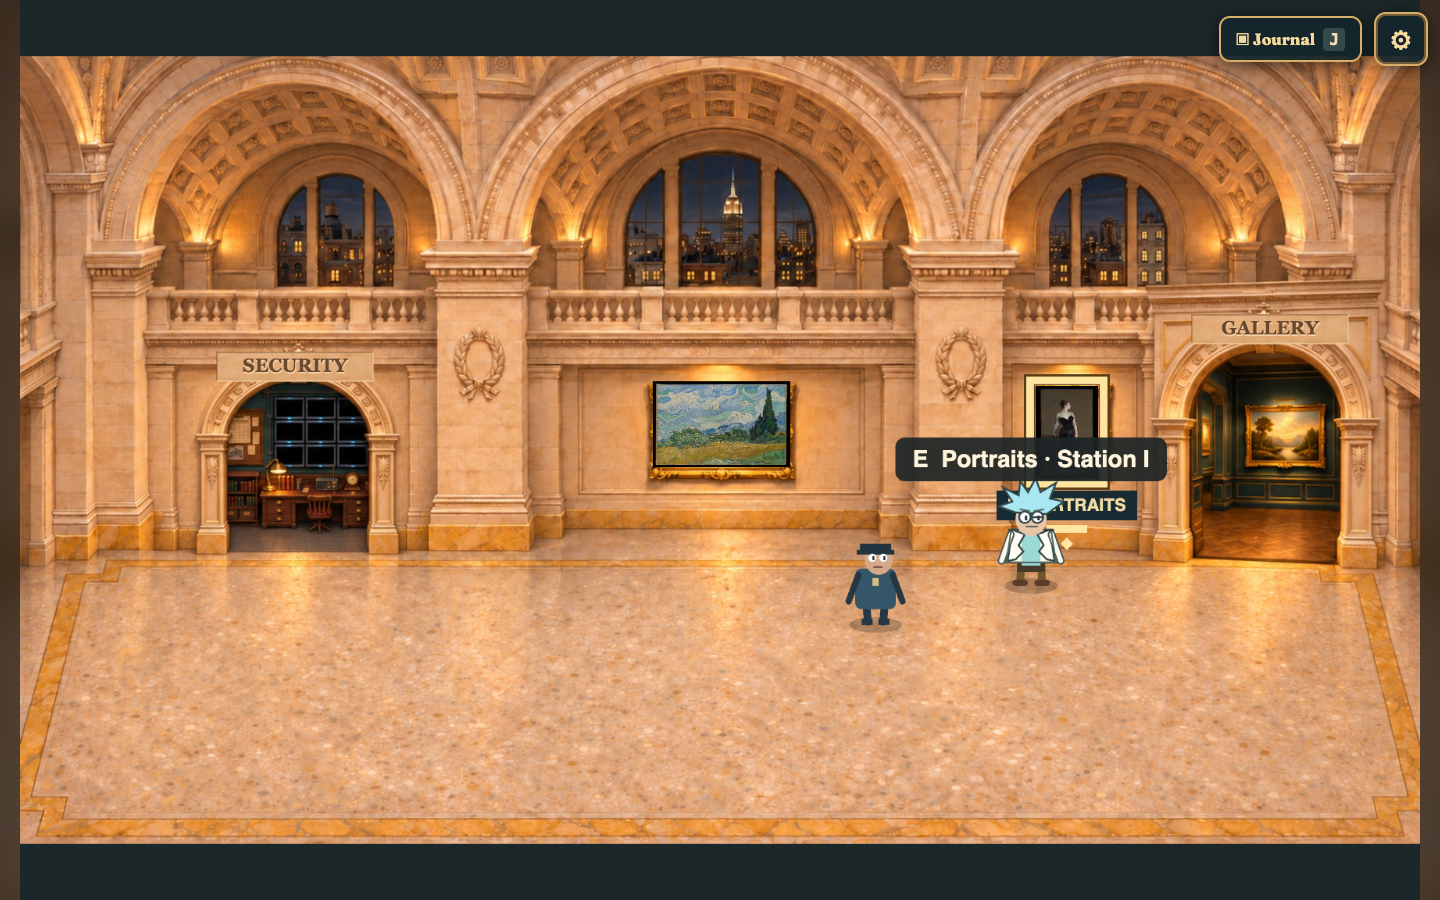
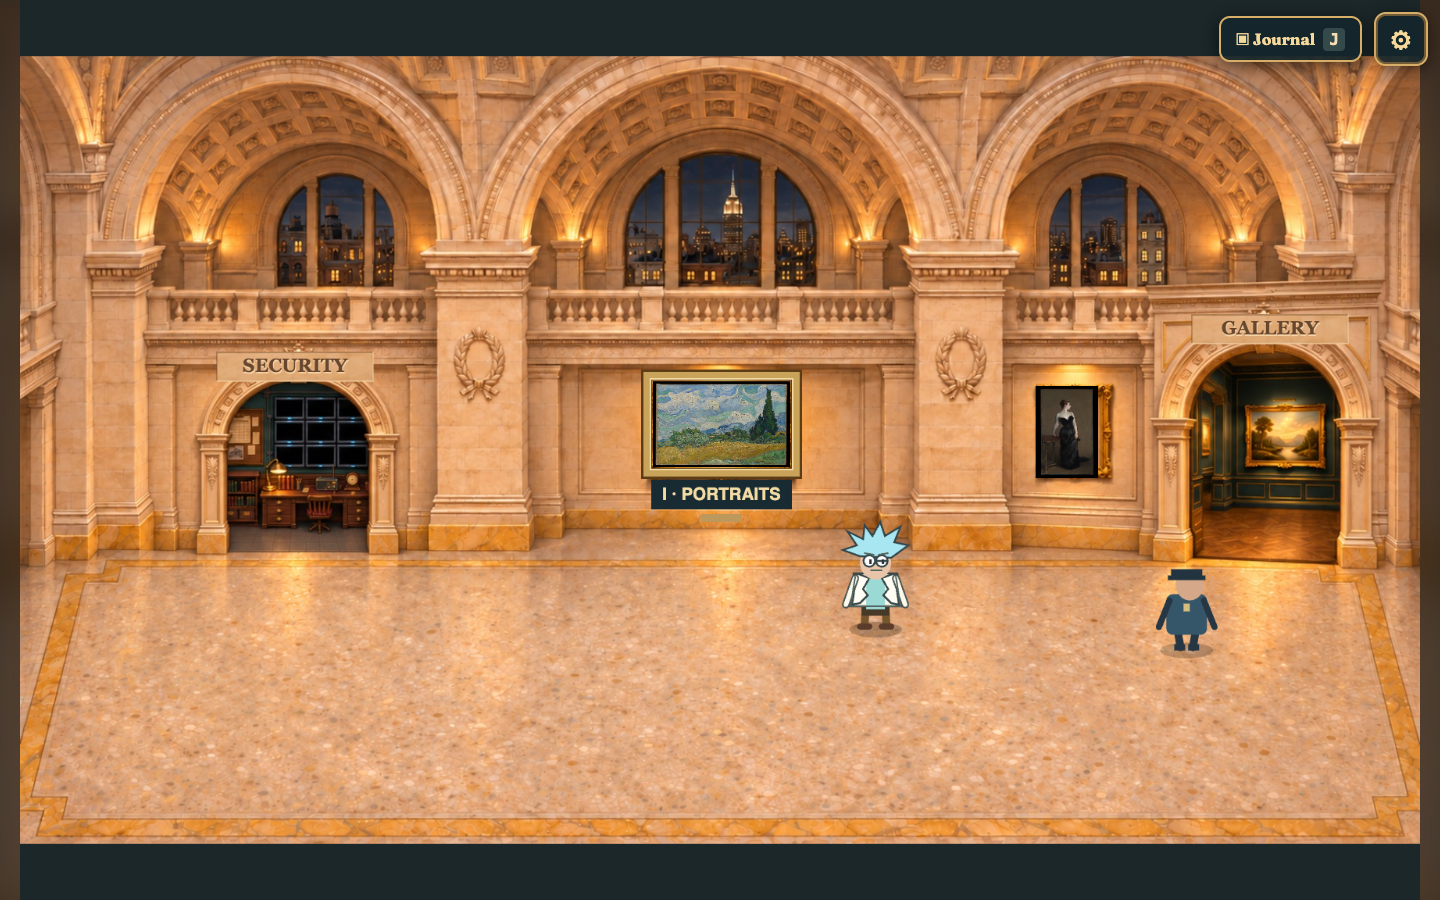
Station I uses the middle hall painting instead of the Sargent portrait

diff --git a/web/main.js b/web/main.js
@@ -5,7 +5,7 @@ import { vaultPosition } from './vault-layout.js';
 import { galleryPosition } from './gallery-layout.js';
 import { createSecurityRenderer } from './security-room.js?v=live-people-3';
 import { createGalleryRenderer } from './gallery.js?v=forgery-sign-3';
-import { WIDTH, HEIGHT, OBJECTS, initialState, restoreState, canEnter, nearbyObject, atVaultDoor } from './engine.js?v=station-i-wall-1';
+import { WIDTH, HEIGHT, OBJECTS, initialState, restoreState, canEnter, nearbyObject, atVaultDoor } from './engine.js?v=station-i-wall-2';
 import * as landscapeStation from './minigames/landscape.js';
 import * as forgeryStation from './minigames/spot-the-forgery.js';
 import * as pictureStation from './minigames/picture-puzzle.js';
@@ -198,7 +198,7 @@ function drawHall(){
     if(image.complete && image.naturalWidth) ctx.drawImage(image,x,y,width,height);
     else {ctx.fillStyle='#394e46';ctx.fillRect(x,y,width,height);}
   }
-  // Station I is Sargent's portrait on the wall (12127, one of the four station cards).
+  // Station I is the large painting in the middle of the hall wall.
   drawStationPortrait(interactTarget()?.id==='ledger');
   const guard=guardDisplay();const person=hallPosition(guard.x,guard.y);
   const guardFacing=guardFacingNow();
@@ -226,8 +226,8 @@ function drawHall(){
   const player=hallPosition(displayPlayer.x,displayPlayer.y);drawPerson(player.x,player.y,'rick',facing,animationTime,heldKeys.size > 0);
   const target=interactTarget(); if(target){ctx.font='bold 15px sans-serif';const text=`E  ${target.label}`;const width=ctx.measureText(text).width+22;ctx.fillStyle='rgba(30,37,38,.92)';ctx.beginPath();ctx.roundRect(player.x-width/2,player.y-93,width,28,6);ctx.fill();ctx.fillStyle='#fff5dd';ctx.fillText(text,player.x-width/2+11,player.y-74);}
 }
-// Gold frame around the hall's Sargent portrait, a sign below, and the gallery's E marker.
-const STATION_I_FRAME={x:650,y:247,width:40,height:59};
+// Gold frame around the middle hall painting, a sign below, and the gallery's E marker.
+const STATION_I_FRAME={x:405,y:244,width:88,height:55};
 function drawStationPortrait(active){
   const {x,y,width,height}=STATION_I_FRAME, mid=x+width/2;
   ctx.save();

diff --git a/web/engine.js b/web/engine.js
@@ -12,7 +12,7 @@ export const START = { x: 3, y: 9 };
 // Stations 2–4 use existing spots until their own rooms exist.
 export const OBJECTS = [
   // Station I comes before Leon: standing at the wall, a tie in distance picks the painting.
-  { id: "ledger", x: 6, y: 3, label: "Portraits · Station I", story: { station: "portraits" } }, // Sargent portrait on the hall wall
+  { id: "ledger", x: 4, y: 3, label: "Portraits · Station I", story: { station: "portraits" } }, // middle painting on the hall wall
   { id: "guard", x: 5, y: 5, label: "Leon (night guard)", story: { talk: "leon" } },
   { id: "painting", x: 14, y: 3, label: "Wall label · Station B", story: { station: "landscape" } },
   { id: "frames", x: 16, y: 3, label: "Frame rack · Station D", story: { station: "archive" } },

diff --git a/web/index.html b/web/index.html
@@ -114,6 +114,6 @@
   <div id="dialog" class="overlay hidden" role="dialog" aria-modal="true" aria-labelledby="dialog-title">
     <div class="dialog-card" tabindex="-1"><p class="eyebrow">MUSEUM MYSTERY</p><h2 id="dialog-title">Discovery</h2><div id="dialog-body"></div><div id="dialog-actions"></div></div>
   </div>
-  <script type="module" src="main.js?v=npc-e-signs-1"></script>
+  <script type="module" src="main.js?v=npc-e-signs-2"></script>
 </body>
 </html>

diff --git a/docs/arbeitsprotokoll.md b/docs/arbeitsprotokoll.md
@@ -393,5 +393,5 @@ Porträt-Zeitleiste, Sound und JPG-Hintergründe integriert. Beide Kunstwerke (S
 
 ## 2026-11-19 · Alle NPCs per E, Station I an der Wand (`feature/npc-e-and-signs`)
 - **M1:** Imani und Dr. Vale sprechen wie Leon nur nach `E`. `handleInteract` nutzt für alle Personen denselben Weg über `PEOPLE` und `talkPartner`. Auto-Talk (`shouldOpenTalk`, `NEAR`, `talkWasNear`, `checkAutoTalk`) ist entfernt. Weggehen schließt die Box weiter (`checkTalkDistance`). Vale dreht sich beim Reden zur Figur (`facingToward`). Imani nicht, weil `gallery.js` sie zeichnet.
-- **M2:** Kasten und Oval in der Hall sind weg. Station I ist jetzt das Sargent-Porträt (Met 12127) an der Hallwand, mit Goldrahmen, Schild „I · PORTRAITS“ (`drawStationSign`, Stil wie in der Gallery) und E-Markierung. `ledger` steht auf x 6, y 3. Leon bleibt nie direkt vor einer Station stehen (`frontOfStation` in `guard.js`).
+- **M2:** Kasten und Oval in der Hall sind weg. Station I ist jetzt das mittlere Bild an der Hallwand (Van Gogh, Wunsch von Florian), mit Goldrahmen, Schild „I · PORTRAITS“ (`drawStationSign`, Stil wie in der Gallery) und E-Markierung. `ledger` steht auf x 4, y 3. Leon bleibt nie direkt vor einer Station stehen (`frontOfStation` in `guard.js`).
 - **Tests:** 269 bestanden. Screenshots `web/dev/shots/npc-*`.
